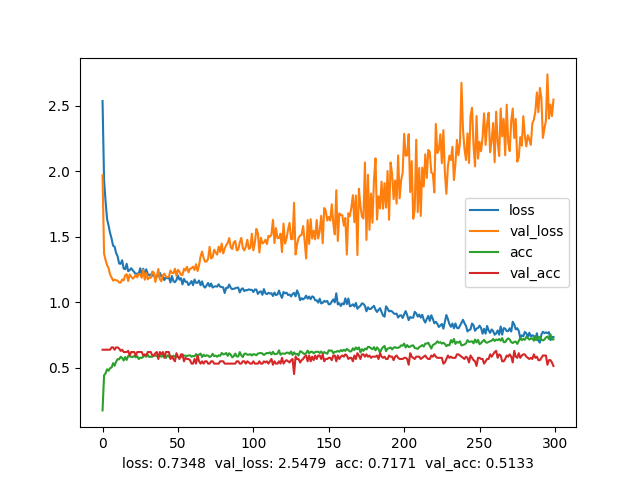
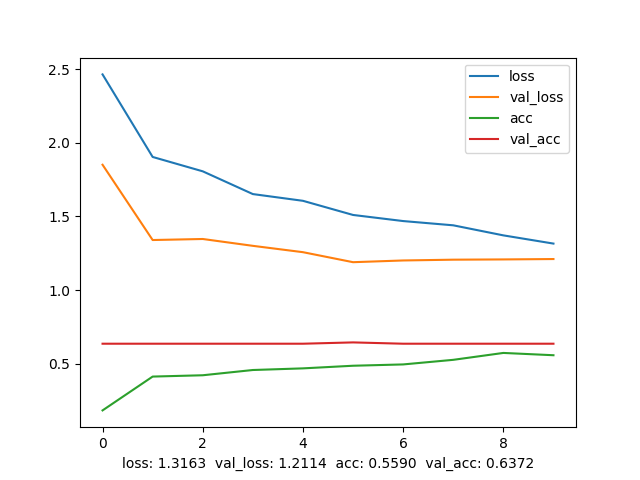
Modifica a grafico

diff --git a/train_softmax.py b/train_softmax.py
@@ -21,6 +21,12 @@ defaults = {
     'create_graph': 'False'
 }
 
+# Arrays for the graph
+loss = None
+val_loss = None
+acc = None
+val_acc = None
+
 # Load configuration file
 parser = argparse.ArgumentParser(description='Train the jx-ai net')
 parser.add_argument('conf_file_path', help='The path to the conf file')
@@ -64,6 +70,38 @@ history = model.fit(x_train, y_train,
                     epochs=epochs, batch_size=batch_size, validation_data=(x_test, y_test),
                     verbose=verbosity, shuffle=False)
 
+if loss is None:
+
+    loss = history.history["loss"]
+
+else:
+
+    loss = np.hstack(loss, history.history["loss"])
+
+if val_loss is None:
+
+    val_loss = history.history["val_loss"]
+
+else:
+
+    val_loss = np.hstack(val_loss, history.history["val_loss"])
+
+if acc is None:
+
+    acc = history.history["acc"]
+
+else:
+
+    acc = np.hstack(acc, history.history["acc"])
+
+if val_acc is None:
+
+    val_acc = history.history["val_acc"]
+
+else:
+
+    val_acc = np.hstack(val_acc, history.history["val_acc"])
+
 # Save the model
 model.save(os.path.join(file_root, name + '.h5'))
 
@@ -72,11 +110,6 @@ if create_graph:
 
     matplotlib.use('Agg')
     from matplotlib import pyplot
-
-    loss = history.history["loss"]
-    val_loss = history.history["val_loss"]
-    acc = history.history["acc"]
-    val_acc = history.history["val_acc"]
 
     pyplot.figure()
     pyplot.plot(loss, label="loss")
